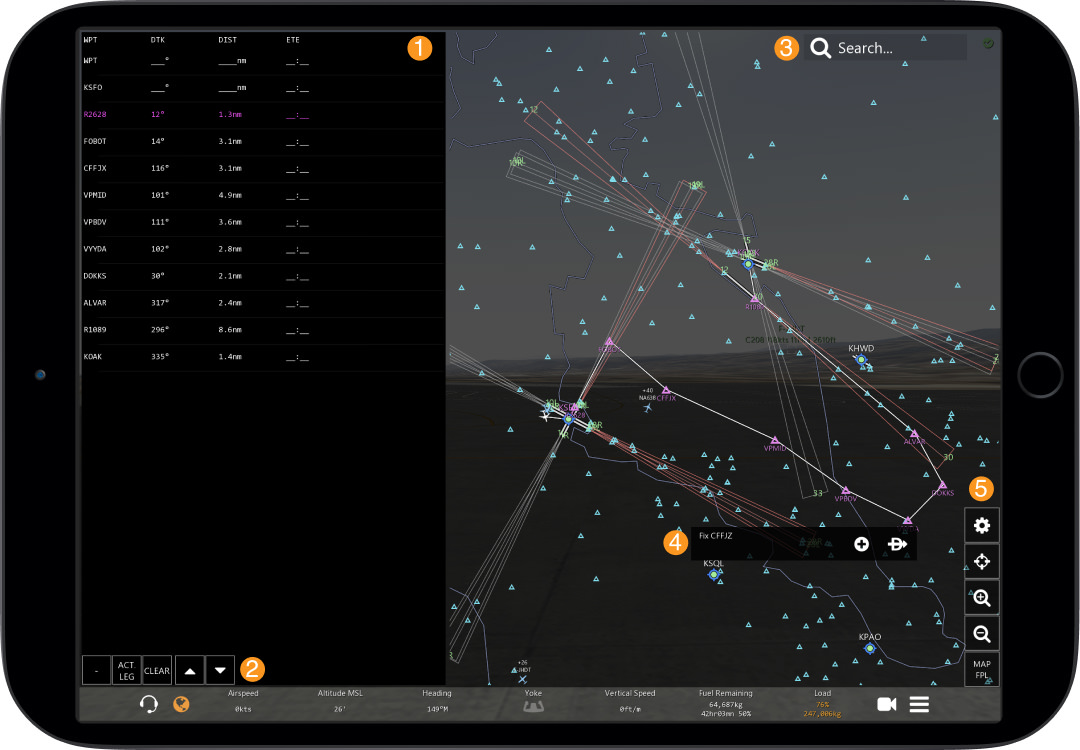
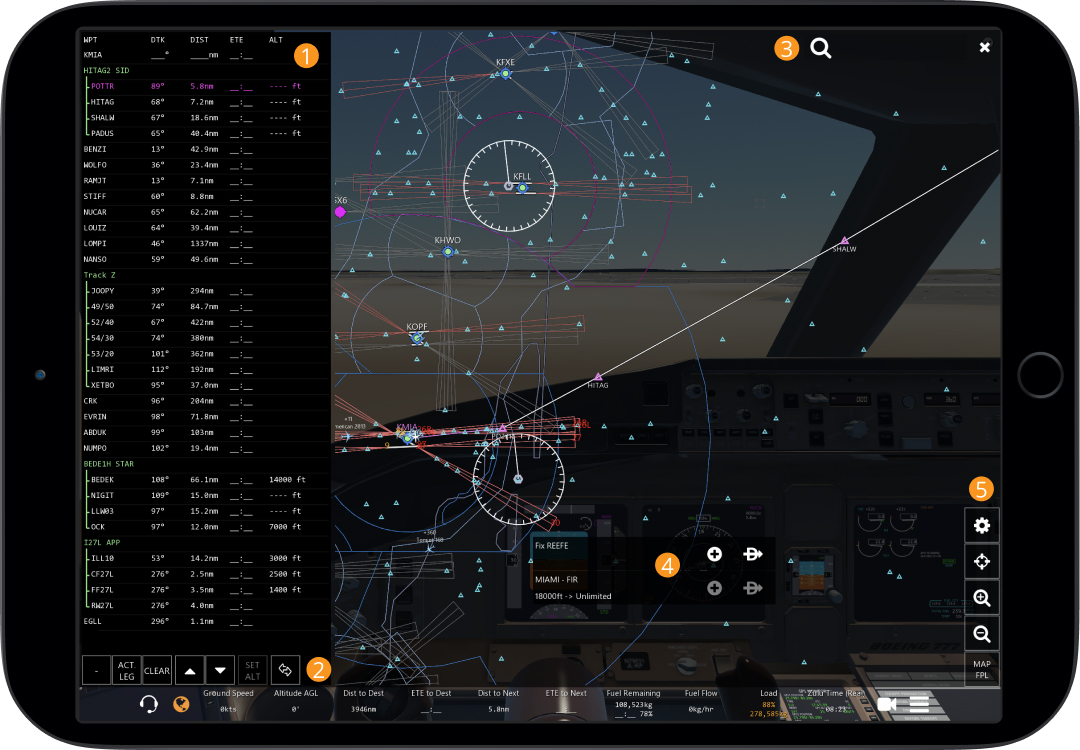
Staging Update
- [NEW] added flight plan sharing information to Getting Started Guide (Issue #249)
- [NEW] added free cam information to Getting Started Guide (Issue #250)
- [FIX] more edits to Diversion page of Flying Guide (Issue #162)

diff --git a/getting-started/pilot-user-interface/flight-planning.md b/getting-started/pilot-user-interface/flight-planning.md
@@ -15,18 +15,20 @@ order: 6
 
 
 
-1. The Flight Plan (FPL) section shows your next waypoint (WPT), desired track (DTK), distance (DIST) and the estimated time en-route (ETE). The active waypoint is always displayed in magenta.
+1. The Flight Plan (FPL) section shows your next waypoint (WPT), desired track (DTK), distance (DIST), estimated time en-route (ETE) and altitude (ALT). The active waypoint is always displayed in magenta.
 
    
 
 2. The buttons at the bottom of the FPL page have the following functions:
 
-   | Button        | Function                               |
-   | ------------- | -------------------------------------- |
-   | -             | Delete a waypoint                      |
-   | Act. Leg      | Make a waypoint the active leg         |
-   | Clear         | Clear entire flight plan               |
-   | Up/Down Arrow | Move a waypoint up/down in flight plan |
+   | Button        | Function                                                     |
+   | ------------- | ------------------------------------------------------------ |
+   | -             | Delete a waypoint                                            |
+   | Act. Leg      | Make a waypoint the active leg by selecting the waypoint, and then tapping this button |
+   | Clear         | Clear entire flight plan                                     |
+   | Up/Down Arrow | Move a waypoint or procedure up/down in your flight plan by selecting the waypoint/procedure, and then using the arrows to position it as desired |
+   | Set Alt       | Tap a waypoint and then this button to set an altitude target that can be used with VNAV |
+   | Open/Share    | Your can open a flight plan using this button, or if you have a flight plan already programmed in, share it |
 
 
 
@@ -46,14 +48,14 @@ order: 6
 
 5. In the bottom right of the screen is settings, center screen and zoom in/out functions. Additionally, you can cycle the display between just the Map, Flight Plan, or both displayed. The customize your display, the settings available are shown below:
 
-| Setting                                  | What it does                                                 |
-| ---------------------------------------- | ------------------------------------------------------------ |
-| Fixes (Show/Hide)                        | Show or hide GPS waypoints known as fixes                    |
-| Navaids (Show/Hide)                      | Show or hide navigation aids (VOR/NDB)                       |
-| Airspaces (Show/Hide)                    | Show or hide airspace                                        |
-| Taxiways (Show/Hide)                     | Show or hide taxiway lines                                   |
-| Approaches (Show All/Hide All/ Show ILS) | Cycle between displaying no approaches, just ILS approaches or all approaches |
-| Uncontrolled Airports (Show/Hide)        | All airports represented by a magenta dot are either shown or hidden using this setting |
+| Setting               | What it does                                                 |
+| --------------------- | ------------------------------------------------------------ |
+| Fixes                 | Show or hide GPS waypoints known as fixes                    |
+| Navaids               | Show or hide navigation aids (VOR/NDB)                       |
+| Airspaces             | Show or hide airspace                                        |
+| Taxiways              | Show or hide taxiway lines                                   |
+| Approaches            | Show or hide approaches                                      |
+| Uncontrolled Airports | All airports represented by a magenta dot are either shown or hidden using this setting |
 
 
 

diff --git a/flying-guide/descent-to-landing/diversion.md b/flying-guide/descent-to-landing/diversion.md
@@ -1,0 +1,103 @@
+---
+id: diversion
+title: Diversion
+meta: Learn how to divert in Infinite Flight.
+order: 5
+---
+
+# Diversion
+
+
+
+## What is a Diversion?
+
+A diversion is when the aircraft is no longer able to continue to the original destination, and is now diverting to a new airport. The list of reasons as to why a diversion is initiated is endless but some of the most common reasons in Infinite Flight could be:
+
+
+
+- The destination airport is full and no longer receiving inbound aircraft
+- There are long delays at the destination airport and you no longer have enough fuel to wait for an approach 
+
+
+
+## Considerations for a Diversion
+
+Below is a table of the considerations that must be taken into account before initiating a diversion:
+
+
+
+| Considerations      | What                                                         |
+| ------------------- | ------------------------------------------------------------ |
+| Fuel                | Do you have enough fuel to get there?                        |
+| Weather             | Is the weather suitable for an approach and landing? What type of approaches are available? |
+| Route               | Is there terrain or airspace that you need to be aware of en-route? |
+| Airport Facility    | Are the taxiways, aprons and parking spaces suitable for the size of your aircraft? |
+| Landing Performance | Is the runway long enough for you to land safely?            |
+
+
+
+To help reduce your workload during a diversion, there are things that you can do to be prepared:
+
+
+
+Step 1
+
+: Before departure, make sure to check alternate airports that are close to your destination and look if they meed the criteria above
+
+
+
+Step 2
+
+: Make sure to have a minimum of one alternate selected and load the fuel required for this
+
+
+
+Step 3
+
+: If you are expecting the destination airport to be busy, load more fuel! 
+
+
+
+Tip
+
+: By preparing in advance, you will be able to make an informed decision and divert much more quickly! 
+
+
+
+## How to Initiate a Diversion
+
+
+
+Step 1
+
+: Make sure the alternate airport meets the considerations for a diversion
+
+
+
+Step 2
+
+: Communicate with ATC of your intention to divert by [selecting a new service such as an approach request for the new airport](/guide/flying-guide/atc-communication/descent-and-approach#pilot-to-radar-controller-communication-table) (or if you have been instructed to divert, follow the ATC instructions given)
+
+
+
+Step 3
+
+: If ATC are able to provide vectors and altitude assignments, then follow these. If they are not, then select a suitable heading to take you in the general direction of the airport (monitor traffic to ensure separation is complied with at all times)
+
+
+
+Step 4
+
+: Check terrain en-route and select a sensible altitude to ensure terrain clearance (if ATC have not assigned one)
+
+
+
+Step 5
+
+: Monitor the airspace you are flying through in case you need to change to another active frequency
+
+
+
+Step 6
+
+: Once you are en-route, you can set up for the approach

diff --git a/getting-started/pilot-user-interface/cameras.md b/getting-started/pilot-user-interface/cameras.md
@@ -26,3 +26,9 @@ Step 2
 Step 3
 
 : There are 7 different categories and within these, multiple options that can be chosen. Whilst continuing to hold your finger on the screen, slide between the categories, and then between the different options within the category. A hollow orange box will move, and once you have highlighted the option you want displayed, release your finger.
+
+
+
+Tip
+
+: Once you have the desired camera selected, you can use your finger to move the camera around, or a pinching motion with two fingers to zoom in/out. With the Free Cams (i.e. Free and Exterior/Interior Drone 1/2), you can use the left side of the screen to go left/right or zoom in/out; and the right hand side of the screen to move the direction the camera is facing
